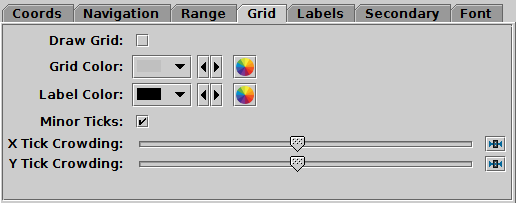
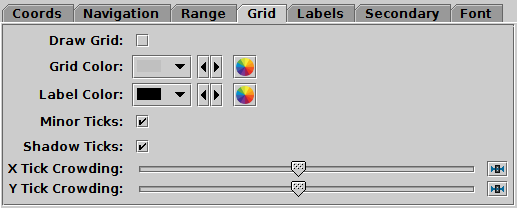
ttools: add shadow tick option for plane/time surfaces
Ticks can now be drawn on the opposite axes mirroring the primary
axis ticks, but without labels, as long as there is no secondary axis.

This behaviour is currently switched off by default in
StyleKeys.SHADOW_TICKS.

Changed region(s): [[0.0, 0.0296, 1.0, 1.0]]

diff --git a/ttools/src/main/uk/ac/starlink/ttools/plot2/geom/PlaneSurface.java b/ttools/src/main/uk/ac/starlink/ttools/plot2/geom/PlaneSurface.java
@@ -431,6 +431,8 @@ public class PlaneSurface implements Surface, PlanarSurface {
      * @param  ycrowd  crowding factor for tick marks on Y axis;
      *                 1 is normal
      * @param  minor   whether to paint minor tick marks on axes
+     * @param  shadow  whether to paint shadow ticks on opposite axes
+     *                 if no secondary axis
      * @param  gridcolor  colour of grid lines, if plotted
      * @param  axlabelcolor  colour of axis labels
      * @return  new plot surface
@@ -446,30 +448,27 @@ public class PlaneSurface implements Surface, PlanarSurface {
                                               Captioner captioner,
                                               double xyfactor, boolean grid,
                                               double xcrowd, double ycrowd,
-                                              boolean minor, Color gridcolor,
+                                              boolean minor, boolean shadow,
+                                              Color gridcolor,
                                               Color axlabelcolor ) {
         int gxlo = plotBounds.x;
         int gxhi = plotBounds.x + plotBounds.width;
         int gylo = plotBounds.y;
         int gyhi = plotBounds.y + plotBounds.height;
+        gridcolor = grid ? gridcolor : null;
         double dxlo = aspect.getXMin();
         double dxhi = aspect.getXMax();
         double dylo = aspect.getYMin();
         double dyhi = aspect.getYMax();
         Ticker xTicker = xlog ? BasicTicker.LOG : BasicTicker.LINEAR;
         Ticker yTicker = ylog ? BasicTicker.LOG : BasicTicker.LINEAR;
-        Tick[] xticks = xTicker.getTicks( dxlo, dxhi, minor, captioner,
-                                          PlaneAxisAnnotation.X_ORIENT,
-                                          plotBounds.width, xcrowd );
-        Tick[] yticks = yTicker.getTicks( dylo, dyhi, minor, captioner,
-                                          PlaneAxisAnnotation.Y_ORIENT,
-                                          plotBounds.height, ycrowd );
-        gridcolor = grid ? gridcolor : null;
 
         /* Fixed ratio of X/Y data scales.  Interpret this by ensuring that
          * all of both requested data ranges is included, and one of them is
          * extended if necessary to accommodate the extra graphics space.
          * Only makes sense if both linear or both log. */
+        final Tick[] xticks;
+        final Tick[] yticks;
         if ( xyfactor > 0 && xlog == ylog ) {
             boolean log = xlog;
             double gx = gxhi - gxlo;
@@ -509,17 +508,27 @@ public class PlaneSurface implements Surface, PlanarSurface {
                                        PlaneAxisAnnotation.Y_ORIENT,
                                        plotBounds.height, 1 );
         }
+
+        /* Otherwise generate standard axis ticks. */
+        else {
+            xticks = xTicker.getTicks( dxlo, dxhi, minor, captioner,
+                                       PlaneAxisAnnotation.X_ORIENT,
+                                       plotBounds.width, xcrowd );
+            yticks = yTicker.getTicks( dylo, dyhi, minor, captioner,
+                                       PlaneAxisAnnotation.Y_ORIENT,
+                                       plotBounds.height, ycrowd );
+        }
         Axis xAxis = Axis.createAxis( gxlo, gxhi, dxlo, dxhi, xlog, xflip );
         Axis yAxis = Axis.createAxis( gylo, gyhi, dylo, dyhi, ylog,
                                       yflip ^ PlaneAxisAnnotation.INVERT_Y );
         Tick[] x2ticks = x2func == null
-                       ? null
+                       ? ( shadow ? PlotUtil.getShadowTicks( xticks ) : null )
                        : SlaveTicker.createTicker( xAxis, x2func )
                                     .getTicks( dxlo, dxhi, minor, captioner,
                                                PlaneAxisAnnotation.X2_ORIENT,
                                                plotBounds.width, xcrowd );
         Tick[] y2ticks = y2func == null
-                       ? null
+                       ? ( shadow ? PlotUtil.getShadowTicks( yticks ) : null )
                        : SlaveTicker.createTicker( yAxis, y2func )
                                     .getTicks( dylo, dyhi, minor, captioner,
                                                PlaneAxisAnnotation.Y2_ORIENT,

diff --git a/ttools/src/main/uk/ac/starlink/ttools/plot2/geom/TimeSurfaceFactory.java b/ttools/src/main/uk/ac/starlink/ttools/plot2/geom/TimeSurfaceFactory.java
@@ -170,7 +170,8 @@ public class TimeSurfaceFactory
                               p.ylog_, p.yflip_, p.tlabel_, p.ylabel_,
                               p.t2func_, p.y2func_, p.t2label_, p.y2label_,
                               p.captioner_, p.grid_, p.tformat_,
-                              p.tcrowd_, p.ycrowd_, p.minor_, p.tannotate_ );
+                              p.tcrowd_, p.ycrowd_, p.minor_, p.shadow_,
+                              p.tannotate_ );
     }
 
     public ConfigKey<?>[] getProfileKeys() {
@@ -189,6 +190,7 @@ public class TimeSurfaceFactory
             YCROWD_KEY,
             TFORMAT_KEY,
             StyleKeys.MINOR_TICKS,
+            StyleKeys.SHADOW_TICKS,
         } ) );
         list.addAll( Arrays.asList( StyleKeys.CAPTIONER.getKeys() ) );
         return list.toArray( new ConfigKey<?>[ 0 ] );
@@ -208,10 +210,11 @@ public class TimeSurfaceFactory
         double ycrowd = config.get( YCROWD_KEY );
         TimeFormat tformat = config.get( TFORMAT_KEY );
         boolean minor = config.get( StyleKeys.MINOR_TICKS );
+        boolean shadow = config.get( StyleKeys.SHADOW_TICKS );
         Captioner captioner = StyleKeys.CAPTIONER.createValue( config );
         return new Profile( ylog, yflip, tlabel, ylabel,
-                            t2func, y2func, t2label, y2label, captioner,
-                            grid, tcrowd, ycrowd, tformat, minor, true );
+                            t2func, y2func, t2label, y2label, captioner, grid,
+                            tcrowd, ycrowd, tformat, minor, shadow, true );
     }
 
     public ConfigKey<?>[] getAspectKeys() {
@@ -521,6 +524,7 @@ public class TimeSurfaceFactory
         private final double ycrowd_;
         private final TimeFormat tformat_;
         private final boolean minor_;
+        private final boolean shadow_;
         private final boolean tannotate_;
 
         /**
@@ -545,6 +549,8 @@ public class TimeSurfaceFactory
          *                 1 is normal
          * @param  tformat time labelling format
          * @param  minor   whether to draw minor ticks
+         * @param  shadow  whether to paint shadow ticks on opposite axes
+         *                 if no secondary axis
          * @param  tannotate  whether to annotate time axis
          */
         public Profile( boolean ylog, boolean yflip,
@@ -552,7 +558,8 @@ public class TimeSurfaceFactory
                         DoubleUnaryOperator t2func, DoubleUnaryOperator y2func,
                         String t2label, String y2label, Captioner captioner,
                         boolean grid, double tcrowd, double ycrowd,
-                        TimeFormat tformat, boolean minor, boolean tannotate ) {
+                        TimeFormat tformat, boolean minor, boolean shadow,
+                        boolean tannotate ) {
             ylog_ = ylog;
             yflip_ = yflip;
             tlabel_ = tlabel;
@@ -567,6 +574,7 @@ public class TimeSurfaceFactory
             ycrowd_ = ycrowd;
             tformat_ = tformat;
             minor_ = minor;
+            shadow_ = shadow;
             tannotate_ = tannotate;
         }
 
@@ -590,7 +598,7 @@ public class TimeSurfaceFactory
             return new Profile( ylog_, yflip_, tlabel_, ylabel_,
                                 t2func_, y2func_, t2label_, y2label_,
                                 captioner_, grid_, tcrowd_, ycrowd_, tformat_,
-                                minor_, tannotate );
+                                minor_, shadow_, tannotate );
         }
     }
 }

diff --git a/ttools/src/main/uk/ac/starlink/ttools/plot2/geom/PlaneSurfaceFactory.java b/ttools/src/main/uk/ac/starlink/ttools/plot2/geom/PlaneSurfaceFactory.java
@@ -314,7 +314,8 @@ public class PlaneSurfaceFactory
                               p.xlabel_, p.ylabel_, p.x2func_, p.y2func_,
                               p.x2label_, p.y2label_, p.captioner_,
                               p.xyfactor_, p.grid_, p.xcrowd_, p.ycrowd_,
-                              p.minor_, p.gridcolor_, p.axlabelcolor_ );
+                              p.minor_, p.shadow_,
+                              p.gridcolor_, p.axlabelcolor_ );
     }
 
     public ConfigKey<?>[] getProfileKeys() {
@@ -335,6 +336,7 @@ public class PlaneSurfaceFactory
             XCROWD_KEY,
             YCROWD_KEY,
             StyleKeys.MINOR_TICKS,
+            StyleKeys.SHADOW_TICKS,
             StyleKeys.GRID_COLOR,
             StyleKeys.AXLABEL_COLOR,
         } ) );
@@ -358,13 +360,14 @@ public class PlaneSurfaceFactory
         double xcrowd = config.get( XCROWD_KEY );
         double ycrowd = config.get( YCROWD_KEY );
         boolean minor = config.get( StyleKeys.MINOR_TICKS );
+        boolean shadow = config.get( StyleKeys.SHADOW_TICKS );
         Color gridcolor = config.get( StyleKeys.GRID_COLOR );
         Color axlabelcolor = config.get( StyleKeys.AXLABEL_COLOR );
         Captioner captioner = StyleKeys.CAPTIONER.createValue( config );
         return new Profile( xlog, ylog, xflip, yflip, xlabel, ylabel,
                             x2func, y2func, x2label, y2label,
-                            captioner, xyfactor, grid, xcrowd, ycrowd, minor,
-                            gridcolor, axlabelcolor );
+                            captioner, xyfactor, grid, xcrowd, ycrowd,
+                            minor, shadow, gridcolor, axlabelcolor );
     }
 
     public ConfigKey<?>[] getAspectKeys() {
@@ -747,6 +750,7 @@ public class PlaneSurfaceFactory
         private final double xcrowd_;
         private final double ycrowd_;
         private final boolean minor_;
+        private final boolean shadow_;
         private final Color gridcolor_;
         private final Color axlabelcolor_;
 
@@ -775,6 +779,8 @@ public class PlaneSurfaceFactory
          * @param  ycrowd  crowding factor for tick marks on Y axis;
          *                 1 is normal
          * @param  minor   whether to paint minor tick marks on axes
+         * @param  shadow  whether to paint shadow ticks on opposite axes
+         *                 if no secondary axis
          * @param  gridcolor  colour of grid lines, if plotted
          * @param  axlabelcolor  colour of axis labels
          */
@@ -784,7 +790,8 @@ public class PlaneSurfaceFactory
                         DoubleUnaryOperator x2func, DoubleUnaryOperator y2func,
                         String x2label, String y2label,
                         Captioner captioner, double xyfactor, boolean grid,
-                        double xcrowd, double ycrowd, boolean minor,
+                        double xcrowd, double ycrowd,
+                        boolean minor, boolean shadow,
                         Color gridcolor, Color axlabelcolor ) {
             xlog_ = xlog;
             ylog_ = ylog;
@@ -802,6 +809,7 @@ public class PlaneSurfaceFactory
             xcrowd_ = xcrowd;
             ycrowd_ = ycrowd;
             minor_ = minor;
+            shadow_ = shadow;
             gridcolor_ = gridcolor;
             axlabelcolor_ = axlabelcolor;
         }

diff --git a/ttools/src/main/uk/ac/starlink/ttools/plot2/geom/TimeSurface.java b/ttools/src/main/uk/ac/starlink/ttools/plot2/geom/TimeSurface.java
@@ -446,6 +446,8 @@ public class TimeSurface implements Surface, PlanarSurface {
      * @param  ycrowd   crowding factor for tick marks on Y axis;
      *                  1 is normal
      * @param  minor   whether to paint minor tick marks on axes
+     * @param  shadow  whether to paint shadow ticks on opposite axes
+     *                 if no secondary axis
      * @param  tannotate  whether to annotate time axis
      * @return  new plot surface
      */
@@ -459,7 +461,7 @@ public class TimeSurface implements Surface, PlanarSurface {
                                              Captioner captioner, boolean grid,
                                              TimeFormat tformat,
                                              double tcrowd, double ycrowd,
-                                             boolean minor,
+                                             boolean minor, boolean shadow,
                                              boolean tannotate ) {
         int gxlo = plotBounds.x;
         int gxhi = plotBounds.x + plotBounds.width;
@@ -481,13 +483,13 @@ public class TimeSurface implements Surface, PlanarSurface {
         Axis yAxis = Axis.createAxis( gylo, gyhi, dylo, dyhi, ylog,
                                       yflip ^ PlaneAxisAnnotation.INVERT_Y );
         Tick[] t2ticks = t2func == null
-                       ? null
+                       ? ( shadow ? PlotUtil.getShadowTicks( tticks ) : null )
                        : new SlaveTicker( tAxis, t2func, BasicTicker.LINEAR )
                         .getTicks( aspect.getTMin(), aspect.getTMax(), minor,
                                    captioner, PlaneAxisAnnotation.X2_ORIENT,
                                    plotBounds.width, tcrowd );
         Tick[] y2ticks = y2func == null
-                       ? null
+                       ? ( shadow ? PlotUtil.getShadowTicks( yticks ) : null )
                        : SlaveTicker.createTicker( yAxis, y2func )
                                     .getTicks( dylo, dyhi, minor, captioner,
                                                PlaneAxisAnnotation.Y2_ORIENT,

diff --git a/ttools/src/main/uk/ac/starlink/ttools/plot2/config/StyleKeys.java b/ttools/src/main/uk/ac/starlink/ttools/plot2/config/StyleKeys.java
@@ -567,7 +567,7 @@ public class StyleKeys {
             } )
         , true );
 
-    /** Config key for minor tick drawing key. */
+    /** Config key for minor tick drawing. */
     public static final ConfigKey<Boolean> MINOR_TICKS =
         new BooleanConfigKey(
             new ConfigMeta( "minor", "Minor Ticks" )
@@ -579,6 +579,22 @@ public class StyleKeys {
                 "</p>",
             } )
         , true );
+
+    /** Config key for shadow tick drawing. */
+    public static final ConfigKey<Boolean> SHADOW_TICKS =
+        new BooleanConfigKey(
+            new ConfigMeta( "shadow", "Shadow Ticks" )
+           .setShortDescription( "Display shadow tick marks?" )
+           .setXmlDescription( new String[] {
+                "<p>If true and no secondary axis is in use,",
+                "then tick marks without numeric labels are painted",
+                "along the axis opposite to the primary axis,",
+                "so that tick marks are visible along all edges",
+                "not just the ones with numeric labels.",
+                "If a secondary axis is in use, this setting is ignored.",
+                "</p>",
+            } )
+        , false );
 
     /** Config key for zoom factor. */
     public static final ConfigKey<Double> ZOOM_FACTOR =

diff --git a/ttools/src/main/uk/ac/starlink/ttools/example/ApiPlanePlotter.java b/ttools/src/main/uk/ac/starlink/ttools/example/ApiPlanePlotter.java
@@ -113,6 +113,7 @@ public class ApiPlanePlotter implements SinePlot.PlanePlotter {
         double xcrowd = 1;
         double ycrowd = 1;
         boolean minor = true;
+        boolean shadow = true;
         Color gridColor = Color.BLACK;
         Color axlabelColor = Color.BLACK;
         PlaneSurfaceFactory.Profile profile =
@@ -120,7 +121,8 @@ public class ApiPlanePlotter implements SinePlot.PlanePlotter {
                                              xlabel, ylabel, x2func, y2func,
                                              x2label, y2label, captioner,
                                              xyfactor, grid, xcrowd, ycrowd,
-                                             minor, gridColor, axlabelColor );
+                                             minor, shadow,
+                                             gridColor, axlabelColor );
 
         /* Set up a plot Aspect.  This is the initial data range,
          * and is subject to change by user navigation. */

diff --git a/topcat/src/main/uk/ac/starlink/topcat/plot2/TimeAxisController.java b/topcat/src/main/uk/ac/starlink/topcat/plot2/TimeAxisController.java
@@ -60,6 +60,7 @@ public class TimeAxisController
             TimeSurfaceFactory.TFORMAT_KEY,
             TimeSurfaceFactory.GRID_KEY,
             StyleKeys.MINOR_TICKS,
+            StyleKeys.SHADOW_TICKS,
             TimeSurfaceFactory.TCROWD_KEY,
             TimeSurfaceFactory.YCROWD_KEY,
         } ) );

diff --git a/topcat/src/main/uk/ac/starlink/topcat/plot2/HistogramAxisController.java b/topcat/src/main/uk/ac/starlink/topcat/plot2/HistogramAxisController.java
@@ -93,6 +93,7 @@ public class HistogramAxisController
             StyleKeys.GRID_COLOR,
             StyleKeys.AXLABEL_COLOR,
             StyleKeys.MINOR_TICKS,
+            StyleKeys.SHADOW_TICKS,
             PlaneSurfaceFactory.XCROWD_KEY,
             PlaneSurfaceFactory.YCROWD_KEY,
         } ) );

diff --git a/topcat/src/main/uk/ac/starlink/topcat/plot2/PlaneAxisController.java b/topcat/src/main/uk/ac/starlink/topcat/plot2/PlaneAxisController.java
@@ -66,6 +66,7 @@ public class PlaneAxisController
             StyleKeys.GRID_COLOR,
             StyleKeys.AXLABEL_COLOR,
             StyleKeys.MINOR_TICKS,
+            StyleKeys.SHADOW_TICKS,
             PlaneSurfaceFactory.XCROWD_KEY,
             PlaneSurfaceFactory.YCROWD_KEY,
         } ) );
